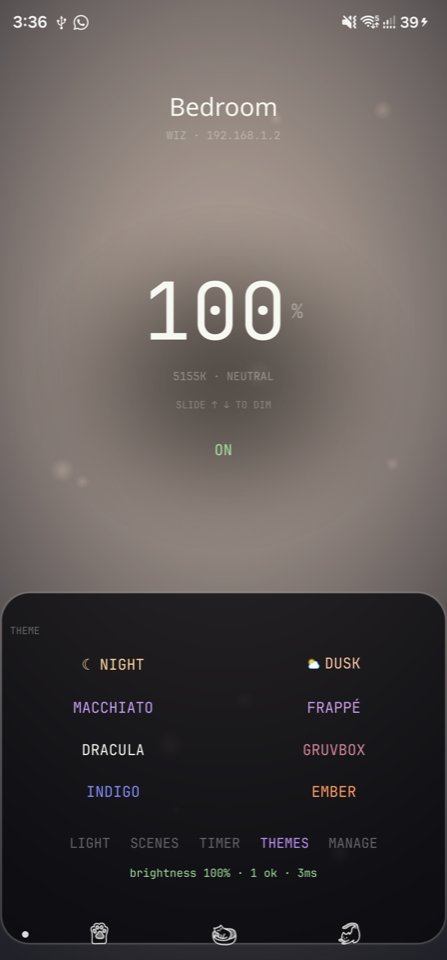
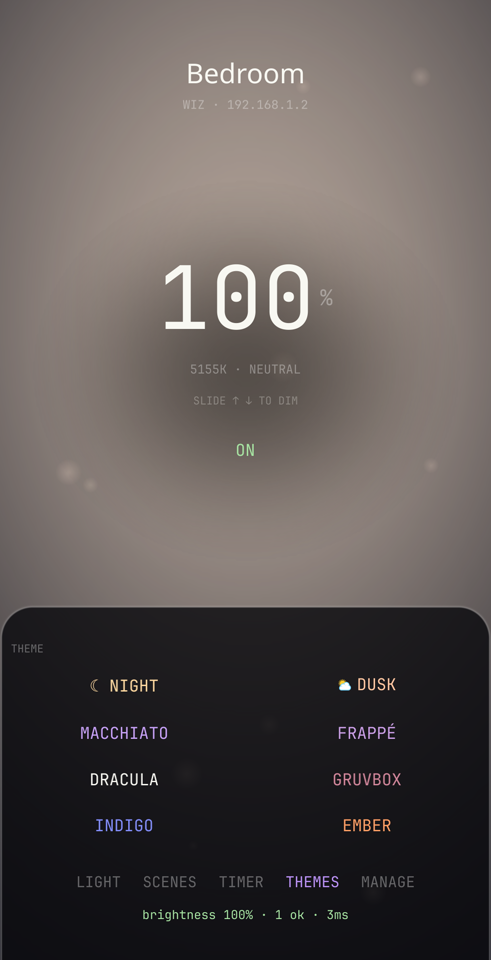
docs: compact README into chapters; move mobile detail and shots into usage guide; crop screenshots to app content

diff --git a/README.md b/README.md
@@ -2,14 +2,14 @@
 
 # Lumina
 
-**A desktop and Android app for WiZ smart lights.** One oversized dial, frosted glass, and light blobs that mirror what your bulbs are actually doing. Click the ring, the room changes — the lamp is the interface.
+**A desktop and Android app for WiZ smart lights.** The lamp is the interface — a glowing dial on desktop, a full-screen aura on mobile, both mirroring what your bulbs are actually doing.
 
 [![CI](https://github.com/shivarchit/Lumina/actions/workflows/ci.yml/badge.svg)](https://github.com/shivarchit/Lumina/actions/workflows/ci.yml)
 [![Release](https://img.shields.io/github/v/release/shivarchit/Lumina)](https://github.com/shivarchit/Lumina/releases/latest)
 [![Platforms](https://img.shields.io/badge/platforms-macOS%20%C2%B7%20Windows%20%C2%B7%20Linux%20%C2%B7%20Android-8A2BE2)](docs/install.md)
 [![License: MIT](https://img.shields.io/badge/license-MIT-green.svg)](#license)
 
-Built on the [Lumina-TUI](https://github.com/shivarchit/Lumina-TUI) engine — one engine, two faces.
+Built on the [Lumina-TUI](https://github.com/shivarchit/Lumina-TUI) engine — one engine, three faces.
 
 ![Lumina Desktop — Night mode](docs/screenshots/night.png)
 
@@ -29,123 +29,56 @@ curl -fsSL https://raw.githubusercontent.com/shivarchit/Lumina/master/install.sh
 irm https://raw.githubusercontent.com/shivarchit/Lumina/master/install.ps1 | iex
 ```
 
-Or grab the installer, portable zip, or tarball from the [latest release](https://github.com/shivarchit/Lumina/releases/latest).
+**Android**: sideload `Lumina-android.apk` from the [latest release](https://github.com/shivarchit/Lumina/releases/latest) — where every desktop installer, zip, and tarball lives too.
 
-On first run, **allow Local Network access** when macOS asks — the app talks to your bulbs directly over LAN UDP, no cloud. If toggles report *failed*, see [troubleshooting](docs/troubleshooting.md).
+On first run, **allow Local Network access** when macOS asks — the app talks to your bulbs directly over LAN UDP, no cloud. Toggles reporting *failed*? See [troubleshooting](docs/troubleshooting.md).
 
-## Documentation
+## Desktop
 
-| Guide | What's inside |
-|-------|---------------|
-| [Usage](docs/usage.md) | Every control in detail — dial, keyboard, scenes, timer, groups, idle mode |
-| [Themes](docs/themes.md) | The eight moods and how they sync with the TUI |
-| [Install](docs/install.md) | Per-OS install, checksum verification, config location |
-| [Build from source](docs/build.md) | Prerequisites per OS, dev loop, release automation |
-| [Troubleshooting](docs/troubleshooting.md) | Failed toggles, offline devices, discovery, macOS permission quirks |
-
-## The dial
-
-Click anywhere on the arc or drag; scroll to nudge; arrow keys for precision (`⇧` for ±10, `Space` toggles power). Dots mark 25/50/75 and clicks near them snap; the knob rides the arc tip. An off bulb wakes at the clicked brightness.
-
-## Panels
-
-Each panel takes the dial's place — progressive disclosure, `← Back`/`Esc` returns.
+One oversized dial: click the arc, scroll to nudge, `Space` toggles power. Panels for temperature, color, and twelve WiZ scenes take the dial's place as needed. Leave it idle and the UI recedes into a lightpainting in your bulbs' current color.
 
 | Temperature | Color | Scenes |
 |-------------|-------|--------|
 | ![Temp](docs/screenshots/temp.png) | ![Color](docs/screenshots/color.png) | ![Scenes](docs/screenshots/scenes.png) |
 
-- **Temperature** — 2200K–6500K rail with warm / day / cool landmarks
-- **Color** — hue ring plus recent and preset hexes
-- **Scenes** — twelve WiZ presets with color-preview pills. While one plays, the Scenes pill morphs into a live indicator with an ✕ to stop it, visible from every screen:
+Live per-bulb status chips, discovery, groups with concurrent fan-out, sleep timer, and eight themes — every control detailed in [usage](docs/usage.md).
 
-<div align="center">
+## Mobile — Aura
 
-![Scene playing](docs/screenshots/scene-playing.png)
-
-</div>
-
-## Live status
-
-One chip per bulb: **green** on · **red** off · **hollow** unreachable. Chips update the instant a command lands and re-sync from the bulbs every 10 seconds — changes from the phone app or TUI show up here too.
-
-## Devices, groups, timer
-
-| Discover | Groups | Timer |
-|----------|--------|-------|
-| ![Discover](docs/screenshots/discover.png) | ![Groups](docs/screenshots/groups.png) | ![Timer](docs/screenshots/timer.png) |
-
-- **Discover** — UDP broadcast scan; bulbs stream in as cards, save/rename inline, offline saved devices stay editable
-- **Groups** — tick members, target the group, commands fan out concurrently; deleting asks twice
-- **Sleep timer** — presets or custom minutes, countdown with absolute end time
-
-## Idle
-
-Leave it alone for 45 seconds and the UI recedes — two light pools in your bulbs' current color roam the window. The app becomes a lamp, not a screen. Any input wakes it in 600ms.
-
-![Idle lightpainting](docs/screenshots/idle-lightpainting.png)
-
-## Themes
-
-Eight moods — ☾ Night, ⛅ Dusk, Macchiato, Frappé, Dracula, Gruvbox, Indigo, Ember — shared with the TUI where names overlap. See [themes](docs/themes.md).
-
-| ☾ Night | ⛅ Dusk | Picker |
-|---------|--------|--------|
-| ![Night](docs/screenshots/night.png) | ![Dusk](docs/screenshots/dusk.png) | ![Themes](docs/screenshots/themes.png) |
-
-## Mobile — Aura (Android)
-
-The phone app drops the dial entirely: **the screen is the bulb**. A full-screen glow renders your light's live color and brightness, drifting embers rise with it, and dragging anywhere up or down dims the room. Every control lives in a bottom sheet of plain words — no buttons, no chrome.
+The phone app drops the dial: **the screen is the bulb**. A full-screen glow renders your light's live color and brightness, drag anywhere to dim, and every control is a word in the bottom sheet — kelvin slider, preset dots, a full-spectrum hue wheel, scenes, sleep timer with a hero countdown, themes, and device management.
 
 | Light | Scenes | Timer |
 |-------|--------|-------|
 | ![Light](docs/screenshots/mobile/light.png) | ![Scenes](docs/screenshots/mobile/scenes.png) | ![Timer](docs/screenshots/mobile/timer.png) |
 
-| Themes | Manage |
-|--------|--------|
-| ![Themes](docs/screenshots/mobile/themes.png) | ![Manage](docs/screenshots/mobile/manage.png) |
+## Documentation
 
-- **Light** — kelvin gradient slider, preset dots, and a hue wheel that opens a full-spectrum picker
-- **Scenes** — the twelve WiZ presets as color-tinted words
-- **Timer** — sleep presets or custom minutes; the countdown lives on the hero so it's visible from any tab
-- **Themes** — the same eight moods as desktop, sharing one config value
-- **Manage** — discover, rename, delete, and group devices; hardware back returns home
-
-Grab `Lumina-android.apk` from the [latest release](https://github.com/shivarchit/Lumina/releases/latest) and sideload it. Same `~/.lumina-config.json` engine underneath — devices and themes carry over conceptually, stored in app storage on Android.
-
-## Easter eggs
-
-The dial knows certain numbers, and it's not just the dial. That's all the hint you get.
+| Guide | What's inside |
+|-------|---------------|
+| [Usage](docs/usage.md) | Every desktop control — dial, keyboard, scenes, timer, groups, idle mode |
+| [Themes](docs/themes.md) | The eight moods and how they sync across desktop, mobile, and TUI |
+| [Install](docs/install.md) | Per-OS install, checksum verification, config location |
+| [Build from source](docs/build.md) | Prerequisites, dev loop, release automation |
+| [Troubleshooting](docs/troubleshooting.md) | Failed toggles, offline devices, discovery, macOS permission quirks |
 
 ## Architecture
 
-The WiZ protocol, discovery, and config layers live in [`Lumina-TUI/pkg`](https://github.com/shivarchit/Lumina-TUI/tree/master/pkg) and are imported as a Go dependency — engine fixes land there and reach this app with a version bump.
+The WiZ protocol, discovery, and config layers live in [`Lumina-TUI/pkg`](https://github.com/shivarchit/Lumina-TUI/tree/master/pkg); a shared `core/` package turns them into one engine consumed by both apps. Everything persists in `~/.lumina-config.json`, shared with the TUI.
 
-- `core/` — platform-neutral engine shared by both apps: targets, fan-out, state sync, config
-- `app.go` — Wails bindings, a thin shell over `core/`
-- `frontend/` — vanilla JS + CSS, no framework; `src/main.js` and `src/style.css` are the whole UI
-- `mobile/` — the Fyne Android app (separate Go module, so desktop CI never compiles it)
-- `build/gen_icon.go` — stdlib generator for the Three Lights app icon
-
-Everything persists in `~/.lumina-config.json`, shared with the TUI: devices, groups, theme, last state.
+- `core/` — platform-neutral engine: targets, fan-out, state sync, config
+- `app.go` + `frontend/` — Wails desktop, vanilla JS/CSS
+- `mobile/` — Fyne Android app (separate Go module)
 
 ## Development
 
-Requires Go 1.25+, Node 18+, and the [Wails CLI](https://wails.io/docs/gettingstarted/installation) — see [docs/build.md](docs/build.md) for per-OS setup:
-
 ```bash
-wails dev      # live-reload development
-wails build    # production build → build/bin/Lumina Desktop.app
-go test ./...  # backend tests
+wails dev                             # desktop live-reload
+wails build                           # desktop production build
+cd mobile && fyne package -os android # Android APK (needs NDK)
+go test ./...                         # backend tests
 ```
 
-Releases are automated: pushing a `v*` tag builds macOS (universal), Windows (amd64), Linux (amd64/arm64), and an Android APK, and publishes them with a combined `SHA256SUMS.txt`.
-
-The Android app builds with the [Fyne CLI](https://docs.fyne.io/started/) and the Android NDK:
-
-```bash
-cd mobile && fyne package -os android   # → mobile/Lumina.apk
-```
+Prereqs and per-OS setup in [docs/build.md](docs/build.md). Pushing a `v*` tag builds macOS, Windows, Linux, and Android artifacts and publishes a release with `SHA256SUMS.txt`.
 
 ## Related
 

diff --git a/docs/usage.md b/docs/usage.md
@@ -109,11 +109,32 @@ fade out while two soft light pools in your bulbs' current color roam the
 window — the app becomes a lamp, not a screen. Any input brings everything
 back within 600ms. Disabled when your OS asks for reduced motion.
 
+## Mobile — Aura (Android)
+
+The phone app has no dial — the screen itself is the bulb. A full-screen glow
+renders the light's live color and brightness, and drifting embers rise with it.
+
+| Themes | Manage |
+|--------|--------|
+| ![Themes](screenshots/mobile/themes.png) | ![Manage](screenshots/mobile/manage.png) |
+
+- **Dim** — drag anywhere on the glow, up or down; the numeral follows
+- **Light** — kelvin gradient slider, preset dots, and a hue wheel that opens a
+  full-spectrum color slider
+- **Scenes** — the twelve WiZ presets as color-tinted words
+- **Timer** — sleep presets or custom minutes; the countdown shows on the hero
+  from any tab, and the light (and hero) switch off when it fires
+- **Themes** — the same eight moods as desktop, one shared config value
+- **Manage** — scan the network, rename, delete, and group devices; the
+  hardware back button returns home
+- Multiple devices/groups: dots appear under the name, tap the name to cycle
+
 ## Shared config
 
 Everything is stored in `~/.lumina-config.json`, the same file
 [Lumina-TUI](https://github.com/shivarchit/Lumina-TUI) reads and writes:
-devices, groups, theme, and last color/brightness/temperature.
+devices, groups, theme, and last color/brightness/temperature. On Android the
+same format lives in app storage.
 
 ## And…
 
